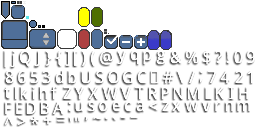
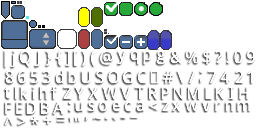
distinguish multi-select mcq from mcq1

Changed region(s): [[0.4062, 0.0, 0.6562, 0.125]]

diff --git a/ScienceEngine/src/com/mazalearn/scienceengine/tutor/McqActor.java b/ScienceEngine/src/com/mazalearn/scienceengine/tutor/McqActor.java
@@ -27,6 +27,7 @@ public class McqActor extends Group {
   private ITutor tutor;
   private TextButton explanation;
   private ButtonGroup optionButtons;
+  private final CheckBoxStyle radioButtonStyle, checkBoxStyle;
   
   private static class OptionListener extends ClickListener {
     
@@ -54,6 +55,8 @@ public class McqActor extends Group {
     createExplanationArea(skin);
     createSubmitButton(skin);
     this.optionListener = createListener(skin, submitButton);
+    this.radioButtonStyle = skin.get("mcq-radio", CheckBoxStyle.class);
+    this.checkBoxStyle = skin.get("mcq-check", CheckBoxStyle.class);
   }
 
   private void createExplanationArea(Skin skin) {
@@ -75,7 +78,7 @@ public class McqActor extends Group {
     optionButtons = new ButtonGroup();
     McqActor.OptionListener listener = new OptionListener(submitButton); 
     for (int i = 0; i < MAX_OPTIONS; i++) {
-      TextButton optionButton = ScreenUtils.createTextButton("", 
+      TextButton optionButton = ScreenUtils.createCheckBox("", 
           ScreenComponent.McqOption.getX(ScreenComponent.getScaledX(400)), 
           y - ScreenComponent.getScaledY(30 * 2 * i), 
           400, 30,
@@ -98,6 +101,7 @@ public class McqActor extends Group {
       TextButton optionButton = (TextButton) buttons.get(i);
       optionButton.setChecked(false);
       optionButton.clearActions();
+      optionButton.setStyle(singleAnswer ? radioButtonStyle : checkBoxStyle);
       Color c = optionButton.getColor();
       optionButton.setColor(c.r, c.g, c.b, 1);
       if (i < optionList.size()) {

diff --git a/ScienceEngine/src/com/mazalearn/scienceengine/app/utils/ScreenUtils.java b/ScienceEngine/src/com/mazalearn/scienceengine/app/utils/ScreenUtils.java
@@ -15,6 +15,8 @@ import com.badlogic.gdx.graphics.g2d.SpriteBatch;
 import com.badlogic.gdx.graphics.g2d.TextureRegion;
 import com.badlogic.gdx.math.Vector3;
 import com.badlogic.gdx.scenes.scene2d.Stage;
+import com.badlogic.gdx.scenes.scene2d.ui.CheckBox;
+import com.badlogic.gdx.scenes.scene2d.ui.CheckBox.CheckBoxStyle;
 import com.badlogic.gdx.scenes.scene2d.ui.Image;
 import com.badlogic.gdx.scenes.scene2d.ui.Label;
 import com.badlogic.gdx.scenes.scene2d.ui.Label.LabelStyle;
@@ -160,6 +162,18 @@ public class ScreenUtils {
     button.getLabel().setAlignment(Align.center, Align.center);
     ScreenComponent.scaleSize(button, width, height);
     button.setPosition(x, y);
+    return button;
+  }
+
+  public static TextButton createCheckBox(String text, 
+      float x, float y, float width, float height, CheckBoxStyle checkBoxStyle) {
+    CheckBox button = new CheckBox(text, checkBoxStyle);
+    button.getLabel().setWrap(true);
+    button.getLabel().setAlignment(Align.center, Align.center);
+    ScreenComponent.scaleSize(button, width, height);
+    button.setPosition(x, y);
+    button.getCell(button.getImage()).width(button.getImage().getWidth() * 2).height(button.getImage().getHeight() * 2);
+    button.getCell(button.getLabel()).width(button.getWidth() - button.getImage().getWidth() * 2);
     return button;
   }
 

diff --git a/ScienceEngine/src/com/mazalearn/scienceengine/tutor/ParameterProber.java b/ScienceEngine/src/com/mazalearn/scienceengine/tutor/ParameterProber.java
@@ -186,9 +186,10 @@ public class ParameterProber extends AbstractScience2DProber {
       //this.addActor(increase);
       //this.addActor(dontCare); 
       Table list = new Table(guru.getSkin());
+      list.setFillParent(true);
       list.add(decrease).width(200).height(200);
-      list.add(dontCare);
-      list.add(increase);
+      list.add(dontCare).width(200).height(200);
+      list.add(increase).width(200).height(200);
       this.addActor(list);
     }
     this.addActor(image);
